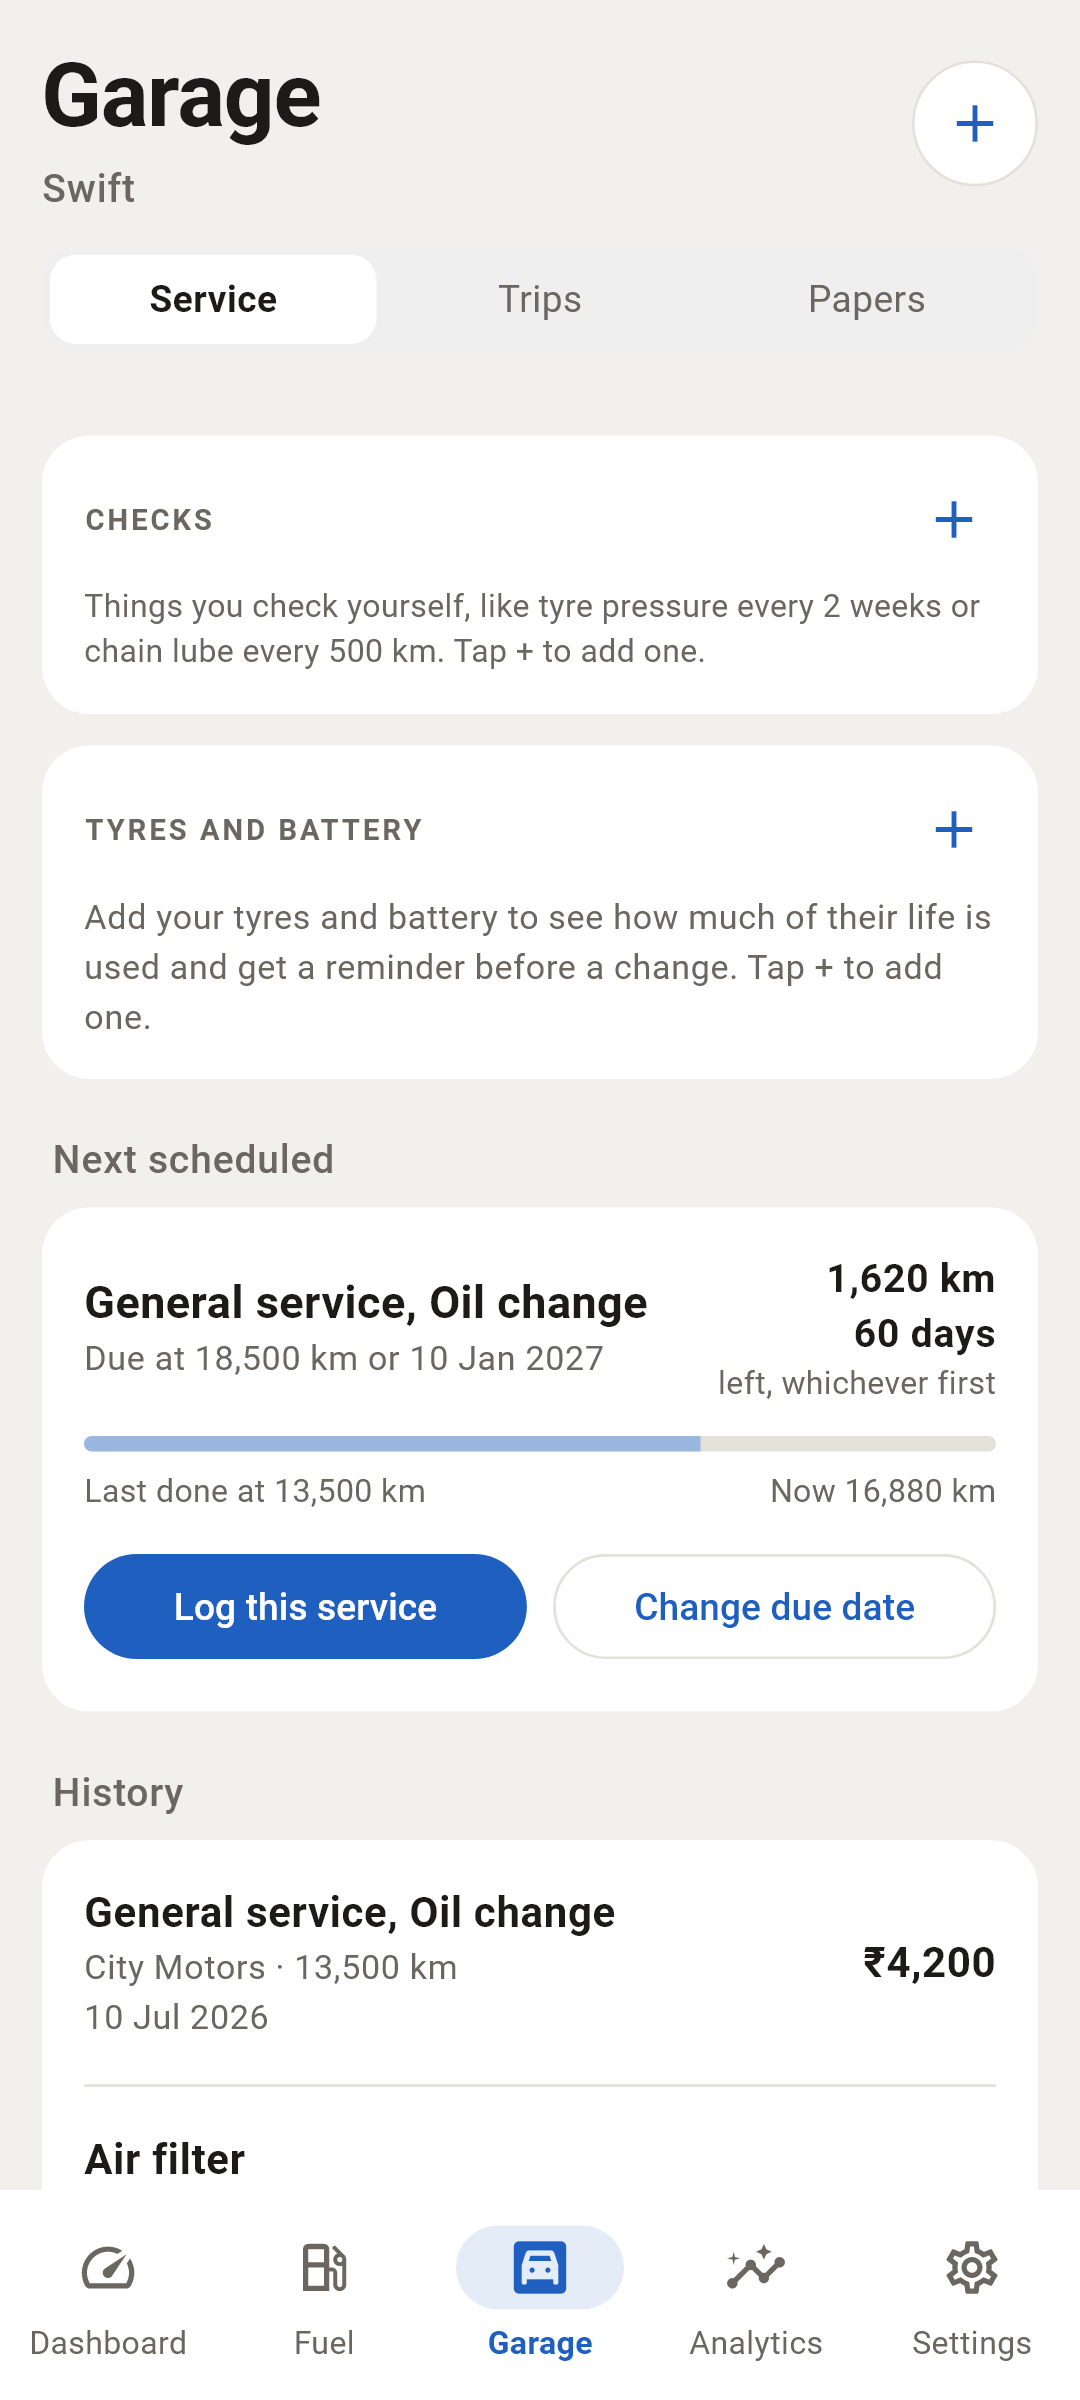
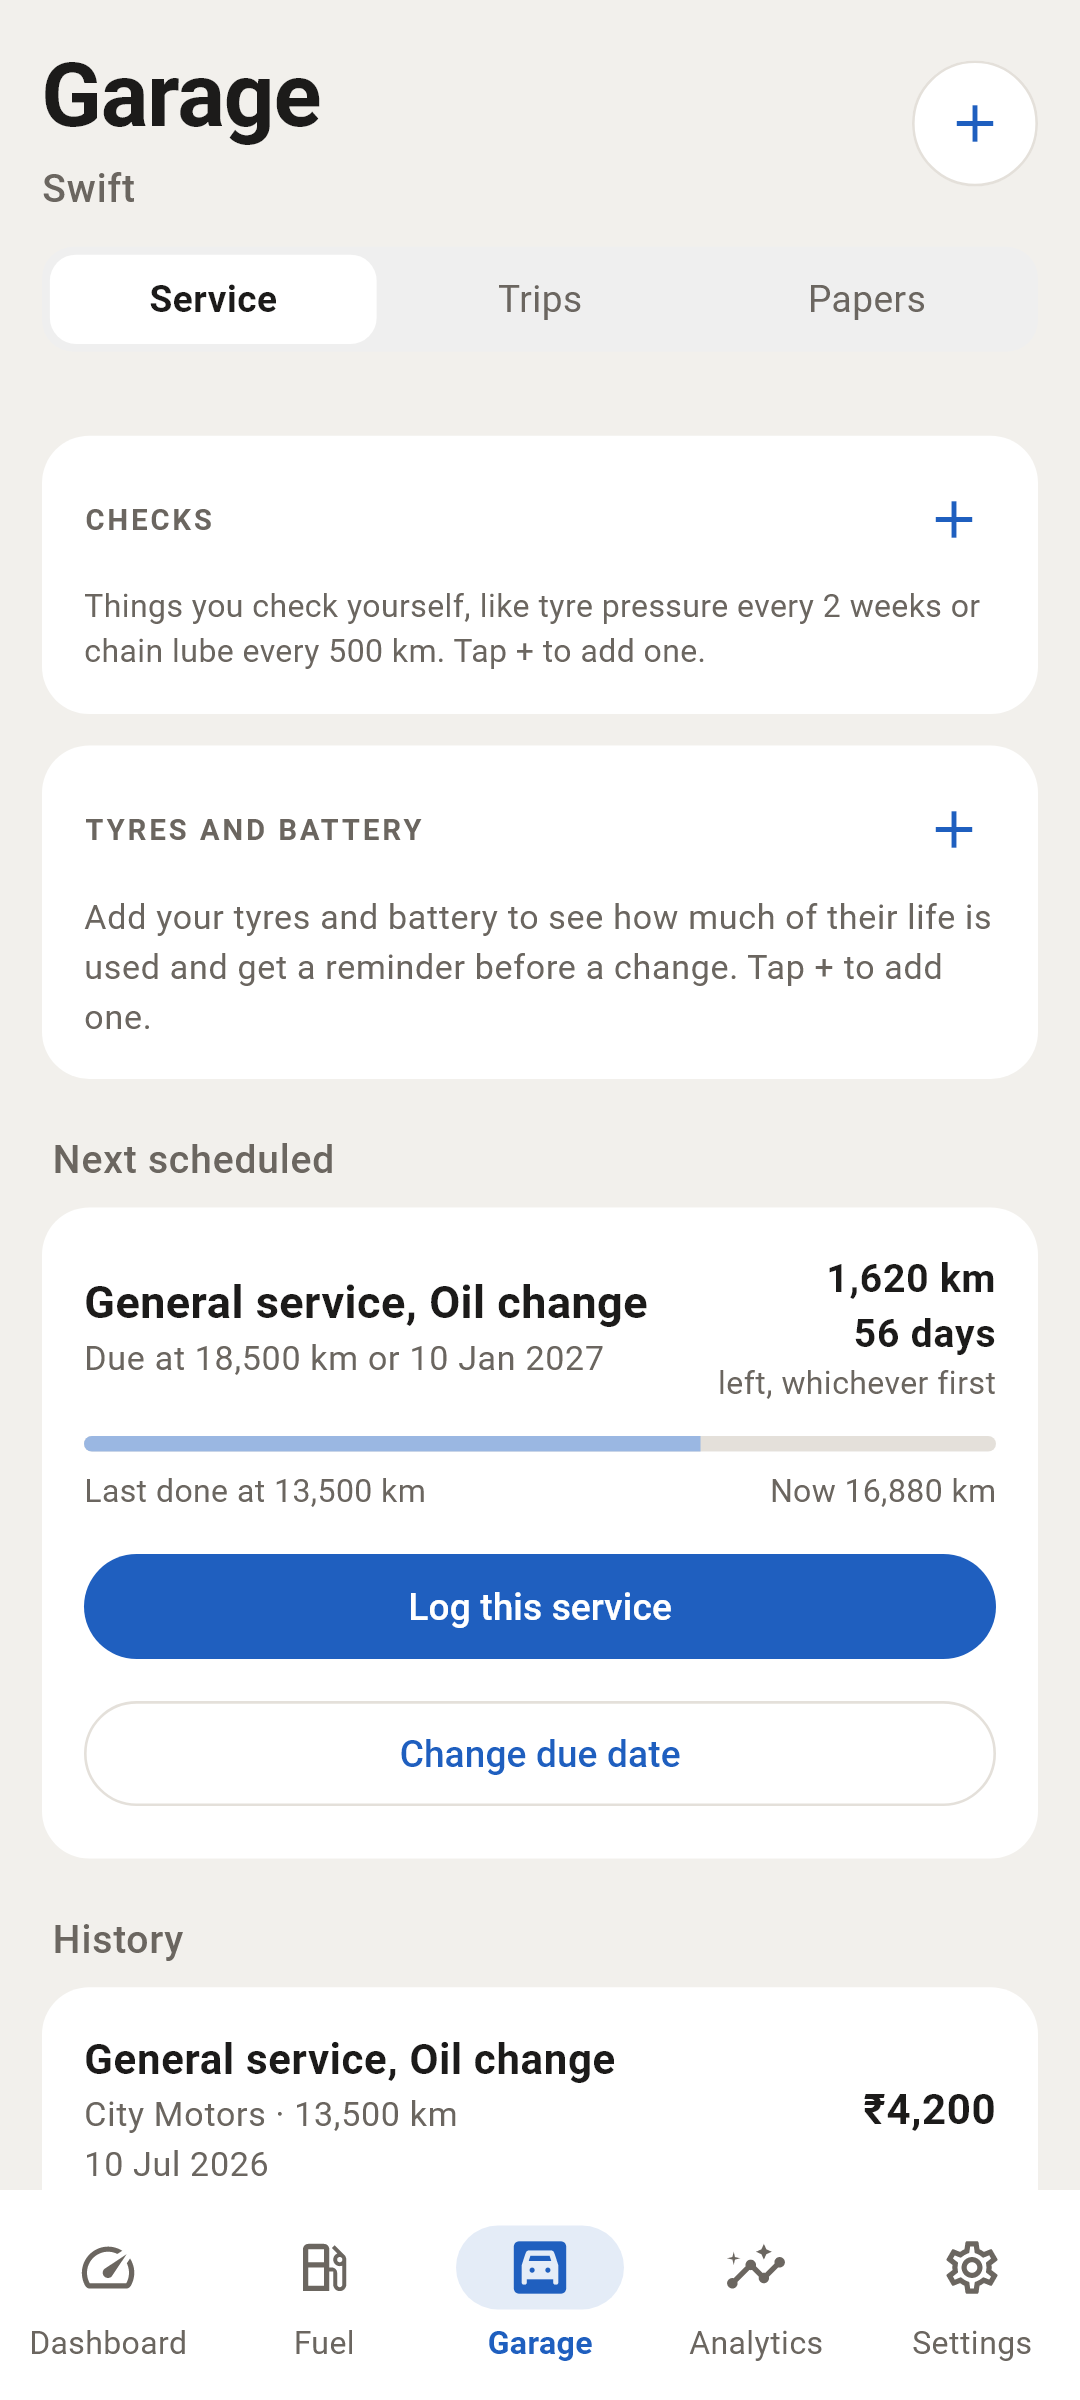
Release v4.4.1: stacked the Next scheduled buttons full width so their labels no longer wrap on a large text size

diff --git a/lib/screens/service_screen.dart b/lib/screens/service_screen.dart
@@ -302,22 +302,16 @@ class _ServiceScreenState extends State<ServiceScreen> {
               ],
             ),
             const SizedBox(height: 12),
-            Row(
-              children: [
-                Expanded(
-                  child: FilledButton(
-                    onPressed: () => _open(types: r.typeIds),
-                    child: const Text('Log this service'),
-                  ),
-                ),
-                const SizedBox(width: 10),
-                Expanded(
-                  child: OutlinedButton(
-                    onPressed: () => _open(record: r, toSchedule: true),
-                    child: const Text('Change due date'),
-                  ),
-                ),
-              ],
+            // Stacked, full width: side by side they wrap on a large text
+            // size.
+            FilledButton(
+              onPressed: () => _open(types: r.typeIds),
+              child: const Text('Log this service'),
+            ),
+            const SizedBox(height: 8),
+            OutlinedButton(
+              onPressed: () => _open(record: r, toSchedule: true),
+              child: const Text('Change due date'),
             ),
           ],
         ),

diff --git a/release-notes/v4.4.1.md b/release-notes/v4.4.1.md
@@ -1,0 +1,8 @@
+## Fixes
+
+- On Garage, Service, the Next scheduled card's "Log this service" and "Change due date" buttons now sit one above the other, full width. On a large text size they used to wrap onto two lines with the text pushed to the left.
+
+## Before you update
+
+- This update installs over v2.0.0 and later with your data intact. The in-app updater offers it, or download `app-arm64-v8a-release.apk`.
+- Nothing in the database or backups changes from v4.4.0.
